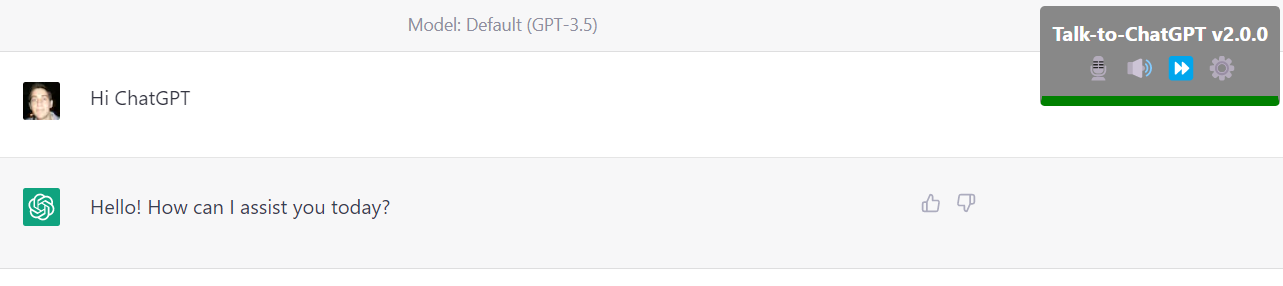
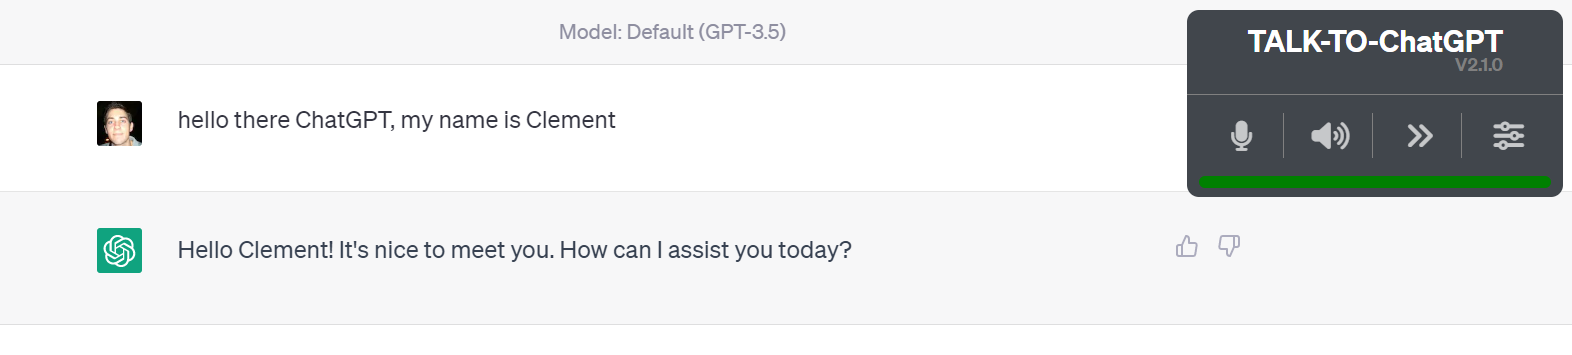
V2.1.0
Better UI - credits to pixelsoda and S. James

diff --git a/chrome-extension/content.js b/chrome-extension/content.js
@@ -1,11 +1,11 @@
 // TALK TO CHATGPT
 // ---------------
 // Author		: C. NEDELCU
-// Version		: 2.0.2
+// Version		: 2.1.0
 // Git repo 	: https://github.com/C-Nedelcu/talk-to-chatgpt
 // Chat GPT URL	: https://chat.openai.com/chat
 // How to use   : https://www.youtube.com/watch?v=VXkLQMEs3lA
-
+// Credits		: C. NEDELCU (code), pixelsoda (GUI), S. James (GUI)
 
 // ----------------------------
 // SETTINGS (FEEL FREE TO EDIT)
@@ -86,7 +86,7 @@ function CN_SayOutLoud(text) {
 	msg.pitch = CN_TEXT_TO_SPEECH_PITCH;
 	msg.onstart = () => {
 		// Make border green
-		$("#TTGPTSettings").css("border-bottom", "8px solid green");
+		$("#CNStatusBar").css("background", "green");
 		
 		// If speech recognition is active, disable it
 		if (CN_IS_LISTENING) CN_SPEECHREC.stop();
@@ -106,7 +106,7 @@ function CN_SayOutLoud(text) {
 // Occurs when speaking out loud is finished
 function CN_AfterSpeakOutLoudFinished() {
 	// Make border grey again
-	$("#TTGPTSettings").css("border", "2px solid #888");
+	$("#CNStatusBar").css("background", "grey");
 	
 	if (CN_FINISHED) return;
 	
@@ -250,15 +250,15 @@ function CN_StartSpeechRecognition() {
 	CN_SPEECHREC.continuous = true;
 	CN_SPEECHREC.lang = CN_WANTED_LANGUAGE_SPEECH_REC;
 	CN_SPEECHREC.onstart = () => {
-		// Make border red
-		$("#TTGPTSettings").css("border-bottom", "8px solid red");
+		// Make bar red
+		$("#CNStatusBar").css("background", "red");
 		
 		CN_IS_LISTENING = true;
 		console.log("I'm listening");
 	};
 	CN_SPEECHREC.onend = () => {
 		// Make border grey again
-		$("#TTGPTSettings").css("border", "2px solid #888");
+		$("#CNStatusBar").css("background", "grey");
 		
 		CN_IS_LISTENING = false;
 		console.log("I've stopped listening");
@@ -478,20 +478,58 @@ function CN_InitScript() {
 	};
 	
 	// Add icons on the top right corner
-	jQuery("body").append("<span style='position: fixed; top: 8px; right: 16px; display: inline-block; " +
-		"background: #888; color: white; padding: 8px; font-size: 16px; border-radius: 4px; text-align: center;" +
-		"font-weight: bold; z-index: 1111;' id='TTGPTSettings'><a href='https://github.com/C-Nedelcu/talk-to-chatgpt' target=_blank title='Visit project website'>Talk-to-ChatGPT v2.0.2</a><br />" +
-		"<span style='font-size: 16px;' class='CNStartZone'>" +
-		"<button style='border: 1px solid #CCC; padding: 4px; margin: 6px; background: #FFF; border-radius: 4px; color:black;' id='CNStartButton' title='ALT+SHIFT+S'>▶ START</button>"+
-		"</span>"+
-		"<span style='font-size: 20px; display:none;' class='CNActionButtons'>" +
-		"<span class='CNToggle' title='Voice recognition enabled. Click to disable. (Shortcut: ALT+SHIFT+H)' data-cn='micon'>🎙 </span>  " + // Microphone enabled
-		"<span class='CNToggle' title='Voice recognition disabled. Click to enable. (Shortcut: ALT+SHIFT+H)' style='display:none;' data-cn='micoff'>🤫 </span>  " + // Microphone disabled
-		"<span class='CNToggle' title='Text-to-speech (bot voice) enabled. Click to disable. This will skip the current message entirely. (Shortcut: ALT+SHIFT+V)' data-cn='speakon'>🔊 </span>  " + // Speak out loud
-		"<span class='CNToggle' title='Text-to-speech (bot voice) disabled. Click to enable. (Shortcut: ALT+SHIFT+V)' style='display:none;' data-cn='speakoff'>🔇 </span>  " + // Mute
-		"<span class='CNToggle' title='Skip the message currently being read by the bot. (Shortcut: ALT+SHIFT+L)' data-cn='skip'>⏩ </span>  " + // Skip
-		"<span class='CNToggle' title='Open settings menu to change bot voice, language, and other settings' data-cn='settings'>⚙</span> " + // Settings
-		"</span></span>");
+	jQuery("body").append(
+		"<div style='position: fixed; top: 8px; right: 16px; display: inline-block; " +
+			"background: #41464c; color: white; padding: 0; font-size: 16px; border-radius: 8px; text-align: center;" +
+			"font-weight: bold; z-index: 1111;' id='TTGPTSettings'>" +
+		
+			// Logo / title
+			"<div style='padding: 4px 40px; border-bottom: 1px solid grey;'>" +
+				"<a href='https://github.com/C-Nedelcu/talk-to-chatgpt' " +
+					"style='display: inline-block; font-size: 20px; line-height: 80%; padding: 8px 0;' " +
+					"target=_blank title='Visit project website'>TALK-TO-ChatGPT<br />" +
+					"<div style='text-align: right; font-size: 12px; color: grey'>V2.1.0</div>" +
+				"</a>" +
+			"</div>" +
+			
+			// Below logo
+			"<div>" +
+				
+				// Start button
+				"<div style='font-size: 16px; padding: 8px;' class='CNStartZone'>" +
+					"<button style='border: 2px solid grey; padding: 6px 40px; margin: 6px; border-radius: 6px; opacity: 0.7;' id='CNStartButton' title='ALT+SHIFT+S'><i class=\"fa-solid fa-play\"></i>&nbsp;&nbsp;START</button>"+
+				"</div>"+
+		
+				// Action buttons
+				"<div style='font-size: 20px; padding: 12px 8px; padding-bottom: 0px; display:none;' class='CNActionButtons'>" +
+					"<table width='100%' cellpadding=0 cellspacing=0><tr>" +
+						"<td width='24%' style='text-align: center;'>" +
+							"<span class='CNToggle' title='Voice recognition enabled. Click to disable. (Shortcut: ALT+SHIFT+H)' data-cn='micon' style='opacity: 0.7;'><i class=\"fa-solid fa-microphone\"></i></span>" + // Microphone enabled
+							"<span class='CNToggle' title='Voice recognition disabled. Click to enable. (Shortcut: ALT+SHIFT+H)' style='display:none; color: red; opacity: 0.7;' data-cn='micoff'><i class=\"fa-solid fa-microphone-slash\"></i></span>" + // Microphone disabled
+						"</td>"+
+						"<td width='1%' style='border-left: 1px solid grey; padding-left: 0 !important; padding-right: 0 !important; font-size: 1px; width: 1px;'>&nbsp;</td>"+
+						"<td width='24%' style='text-align: center;'>" +
+							"<span class='CNToggle' title='Text-to-speech (bot voice) enabled. Click to disable. This will skip the current message entirely. (Shortcut: ALT+SHIFT+V)' data-cn='speakon' style='opacity: 0.7;'><i class=\"fa-solid fa-volume-high\"></i></span>" + // Speak out loud
+							"<span class='CNToggle' title='Text-to-speech (bot voice) disabled. Click to enable. (Shortcut: ALT+SHIFT+V)' style='display:none; color: red; opacity: 0.7;' data-cn='speakoff'><i class=\"fa-solid fa-volume-xmark\"></i></span>  " + // Mute
+						"</td>"+
+						"<td width='1%' style='border-left: 1px solid grey; padding-left: 0 !important; padding-right: 0 !important; font-size: 1px; width: 1px;'>&nbsp;</td>" +
+						"<td width='24%' style='text-align: center;'>" +
+							"<span class='CNToggle' title='Skip the message currently being read by the bot. (Shortcut: ALT+SHIFT+L)' data-cn='skip' style='opacity: 0.7;'><i class=\"fa-solid fa-angles-right\"></i></span>" + // Skip
+						"</td>"+
+						"<td width='1%' style='border-left: 1px solid grey; padding-left: 0 !important; padding-right: 0 !important; font-size: 1px; width: 1px;'>&nbsp;</td>" +
+						"<td width='24%' style='text-align: center;'>" +
+							"<span class='CNToggle' title='Open settings menu to change bot voice, language, and other settings' data-cn='settings' style='opacity: 0.7;'><i class=\"fa-solid fa-sliders\"></i></span>" + // Settings
+						"</td>"+
+					"</tr></table>" +
+					
+					// Colored bar - transparent by default, red when mic on, green when bot speaks
+					"<div style='padding-top: 12px; padding-bottom: 6px;'>" +
+						"<div id='CNStatusBar' style='background: grey; width: 100%; height: 8px; border-radius: 4px; overflow: hidden;'>&nbsp;</div>" +
+					"</div>" +
+				"</div>" +
+			"</div>" +
+		"</div>"
+	);
 	
 	setTimeout(function () {
 		// Try and get voices
@@ -501,6 +539,10 @@ function CN_InitScript() {
 		jQuery(".CNToggle").css("cursor", "pointer");
 		jQuery(".CNToggle").on("click", CN_ToggleButtonClick);
 		jQuery("#CNStartButton").on("click", CN_StartTTGPT);
+		
+		// Make icons change opacity on hover
+		jQuery(".CNToggle, #CNStartButton").on("mouseenter", function() { jQuery(this).css("opacity", 1); });
+		jQuery(".CNToggle, #CNStartButton").on("mouseleave", function() { jQuery(this).css("opacity", 0.7); });
 	}, 100);
 	
 	// Start key detection

diff --git a/chrome-extension/popup.html b/chrome-extension/popup.html
@@ -2,9 +2,9 @@
 	a, a:visited { color: white; }
 </style>
 
-<div style="background: #333333; color: white; padding: 20px; width: 600px;">
+<div style="background: #41464c; color: white; padding: 20px; width: 600px;">
 
-	<h1>Talk-To-ChatGPT</h1>
+	<h1>TALK-TO-ChatGPT</h1>
 	
 	<p style='font-size: 15px;'>
 		<b>To start using this extension, 
@@ -21,11 +21,9 @@
 		&bullet; When the box's bottom border is <b style='color:red'>red</b>, your microphone is listening<br />
 		&bullet; When the box's bottom border is <b style='color:green'>green</b>, the bot is talking<br />
 		&bullet; Access the settings by clicking the settings icon: change voice/language, bot talking speed, and more.
-		<br /><br />
-		
-		Project home page and source code: <a href='https://github.com/C-Nedelcu/talk-to-chatgpt' target=_blank>GitHub</a><br />
-		Demontration video on Youtube: <a href='https://www.youtube.com/watch?v=sKjkOwkoMNM' target=_blank>click here</a>
 	</p>
+
+	<hr />
 
 	<h1>Having trouble getting it to work?</h1>
 	
@@ -57,7 +55,20 @@
 		There is sometimes <a href='https://stackoverflow.com/questions/21947730/chrome-speech-synthesis-with-longer-texts'>a bug with Google Chrome's voice API</a>,
 		when the bug occurs, it can completely jam the API until you restart your browser.
 		
-		
+	</p>
+	
+	<hr />
+	
+	<h1>Credits</h1>
+	
+	<p>
+		Author: C. Nedelcu<br />
+		GUI: pixelsoda, S. James<br />
+		Icons: FontAwesome
 	</p>
 
+	<p>
+		Project home page and source code: <a href='https://github.com/C-Nedelcu/talk-to-chatgpt' target=_blank>GitHub</a><br />
+		Demontration video on Youtube: <a href='https://www.youtube.com/watch?v=sKjkOwkoMNM' target=_blank>click here</a>
+	</p>
 </div>
